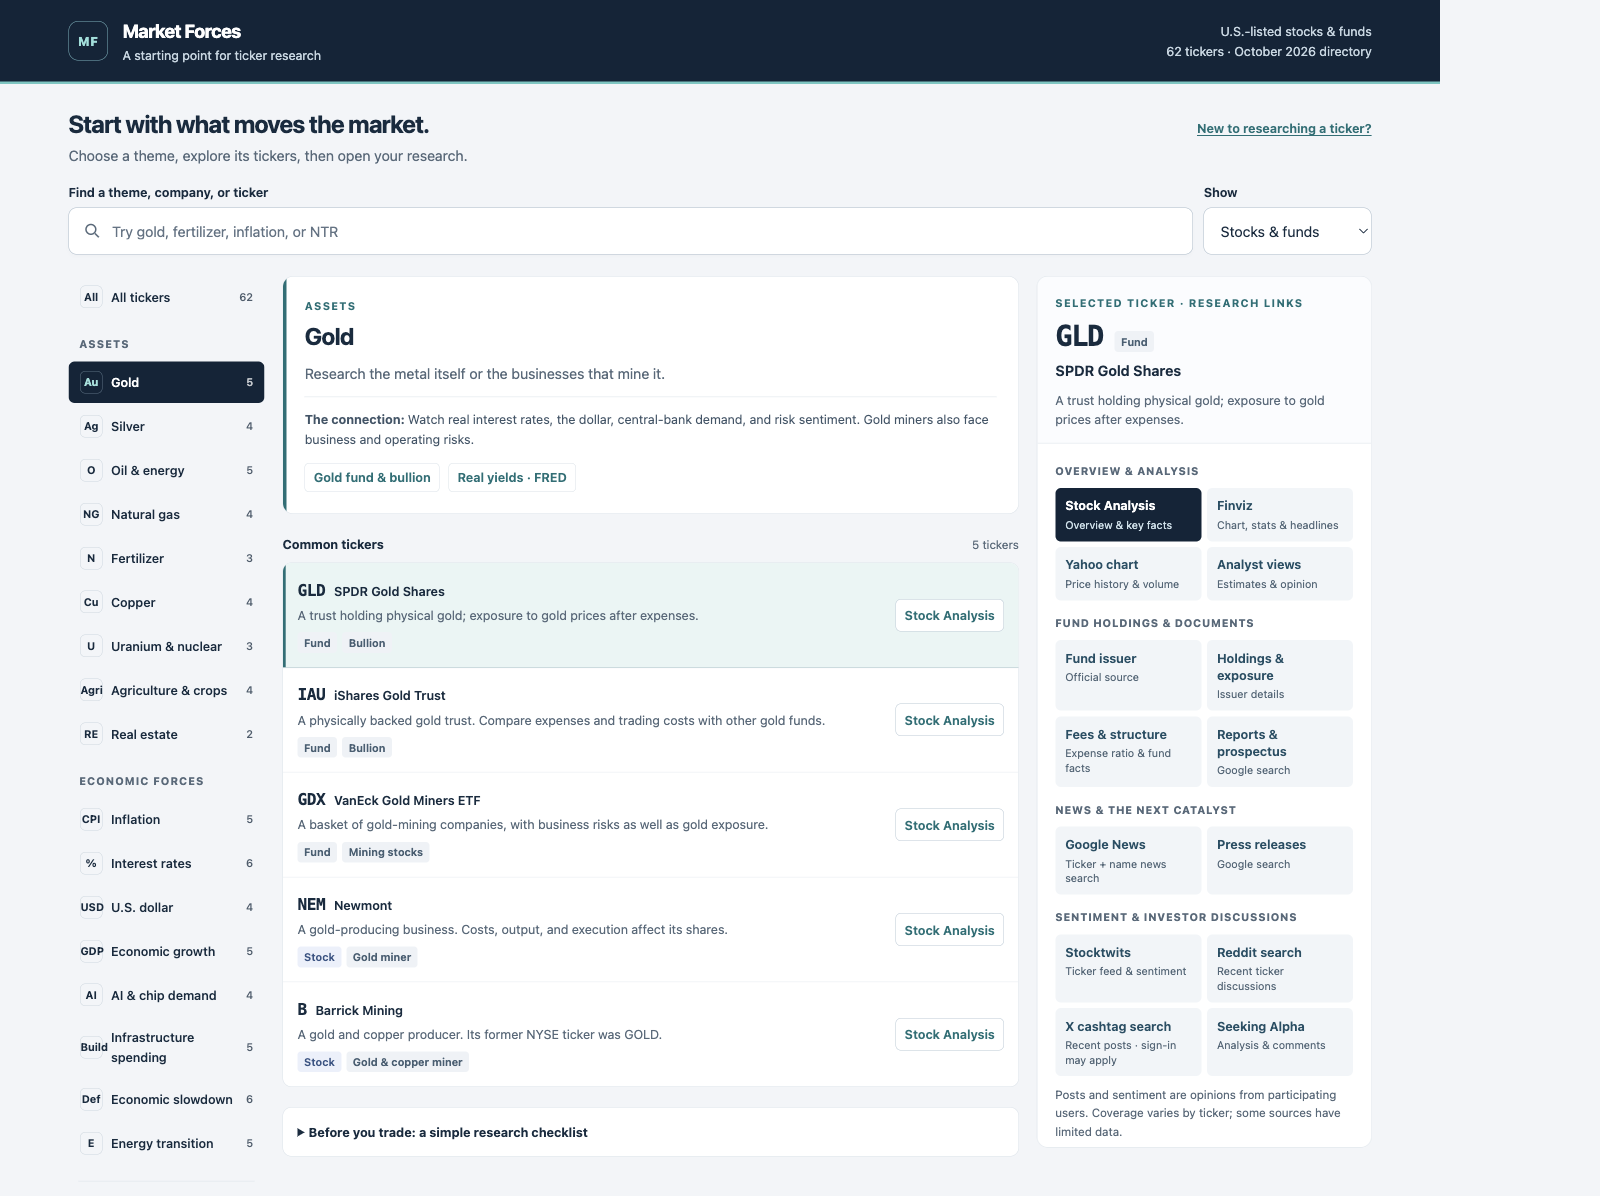
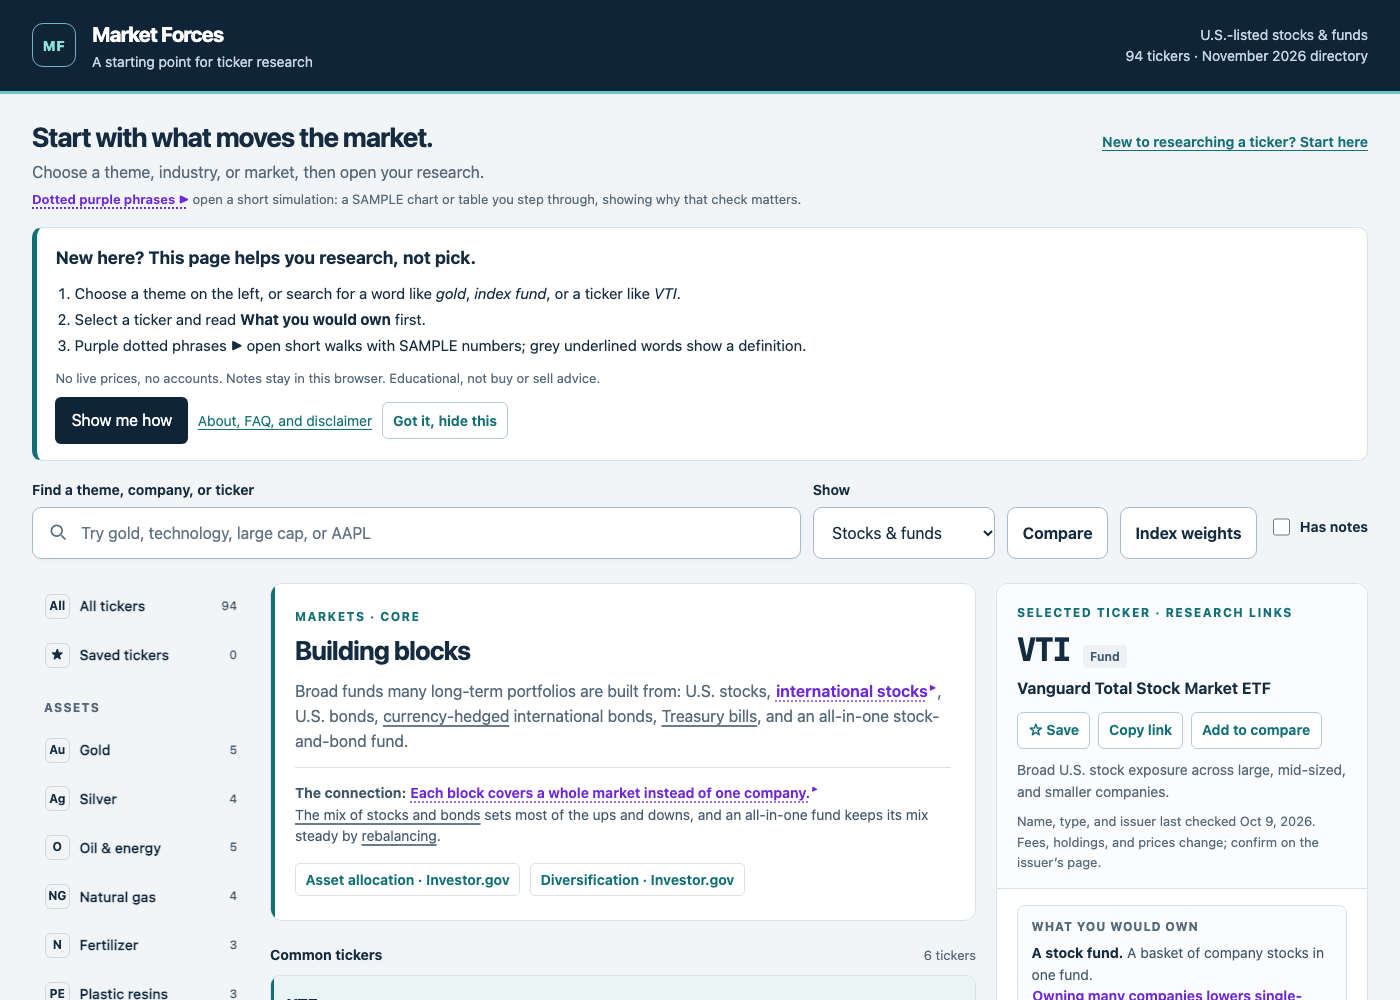
Refresh README and screenshots, add accessibility notes, and record Epic 8 in the roadmap

diff --git a/README.md b/README.md
@@ -9,11 +9,11 @@ By Weng (Weng Fei Fung)
 
 Beginner’s directory of common stocks and funds, grouped by economic theme, with research links for each ticker.
 
-![Gold theme with research links for the GLD fund](screenshots/directory.png)
+![First visit: the welcome card and the Building blocks theme with VTI's research panel](screenshots/directory.png)
 
-![Research links for the Newmont stock, including financials and filings](screenshots/stock-research.png)
+![Research links for the Newmont stock, with the date its entry was last checked](screenshots/stock-research.png)
 
-<img src="screenshots/phone.png" alt="Market Forces on a phone" width="320">
+<img src="screenshots/phone.png" alt="Market Forces on a phone, showing the Corporate & muni bonds theme" width="320">
 
 ## What you can do
 
@@ -27,11 +27,24 @@ Beginner’s directory of common stocks and funds, grouped by economic theme, wi
 - **Step through why it matters.** Dotted purple phrases ▶ in theme text, the research panel, Compare, Index weights, and the research guide open a short simulation, copied from Tool Training in the stocks trainer: a SAMPLE chart or table you step through with Next, Previous, Replay, or the arrow keys. Each step says what it shows and why we are looking. `#…&sim=duration` opens one directly. The research guide lists all 42, Basic first, and every theme underlines at least one. Each walk is tagged Basic, Next step, or Advanced, and a walk that builds on another shows “New to …? ▶” at the top.
 - **Start here for beginners.** “New to researching a ticker? Start here” opens a three-step how-to and seven Basic walks in reading order: what a stock is, how to read a bar, what an index and market cap are, the bond seesaw, compounding, diversification, and defining your downside.
 - **Plain-language words.** Grey underlined words (ETF, Treasury, maturity, futures, spot, market cap, issuer, prospectus, and about 20 more) show a one-line definition; Esc or a click elsewhere closes it. Every research link has a short line saying what it opens.
+- **Welcome and About.** A first visit shows a short welcome card (Got it hides it for good) and opens the research guide once. [About, FAQ, and disclaimer](about.html) covers where the data comes from, how current it is, and where notes are kept.
+- **Building blocks and bond funds.** Broad funds (VTI, VXUS, BND, BNDX, SGOV, and the all-in-one AOR) and Corporate & muni bonds (LQD, HYG, MUB). Search understands everyday words such as *index fund*, *retirement*, *junk bonds*, or *tax free*.
+- **Not covered, and why.** Searching for crypto, leveraged or inverse funds, options, single bonds or CDs, or an account type explains why this beginner directory leaves it out, with an Investor.gov link.
+- **How current it is.** Each research panel shows when that entry was last checked. A banner appears when entries or the index-weights snapshot are more than 90 days old (`?asof=2027-03-01` previews a later date). Index weights say "Not in this snapshot" rather than showing zero.
+- **Works offline and installs.** After one visit the page, directory, and walks load offline; browsers can install it from the manifest. The service worker is network first, so new versions and localhost edits show at once. `?nosw` removes it.
+- **Keeps your notes safe.** After 3 new notes since your last backup, the notes panel suggests one. A private window or blocked storage shows a warning.
+- **Phone.** Tapping a ticker scrolls to its research; *Back to the ticker list* returns. The *Add / edit with AI* helper for maintainers sits in the footer.
 
-No live prices. These are research starting points, not buy or sell recommendations.
+No live prices. These are research starting points, not buy or sell recommendations. Educational, not buy or sell advice.
 
 ## Check the catalog
 
 After editing `data/catalog.json` or `data/index-weights.json`, run `node tools/check-catalog.mjs`. It needs no packages. It fails on a theme symbol missing from `instruments`, a duplicate symbol or theme id, a missing field, an unknown group or category, or a link that is not `https://`, and warns about tickers no theme lists.
+
+It also checks every `reviewed` date and warns when an entry or index snapshot is more than 90 days old, or when an index snapshot has no directory ticker.
+
+After changing `js/core.js` (deep links, search ranking, not-covered notes, backup merge, freshness, titles), run `node tools/test-app.mjs`.
+
+When you change anything under `js/` or `data/`, bump `APP_VERSION` in `index.html` (the loader's `version`). Scripts, data, and the service worker cache all follow it. Accessibility checks and results are in [docs/accessibility.md](docs/accessibility.md).
 
 After editing simulations (`js/simulations.js`) or any theme text they underline, run `node tools/test-simulations.mjs`. It checks the step rules (Next, Previous, Replay, bounds), that every simulation has 5 or more steps with what-and-why copy and a SAMPLE label, that every underlined phrase still exists in the catalog or page and points at a real simulation, that every theme has an underline, that every walk has a level and valid prerequisites, that every defined term and research-link note is on the page, that the SAMPLE tables add up, and that the index-weights walk matches `data/index-weights.json`.

diff --git a/docs/accessibility.md b/docs/accessibility.md
@@ -1,0 +1,40 @@
+# Accessibility pass · 2026-11-13
+
+Checked on index.html and about.html with headless Chrome at 1400 px and 390 px, using a contrast script (WCAG 2.x relative luminance) against the page's CSS and a DOM check for headings, names, ids, and ARIA references.
+
+## Contrast
+
+| Element | Text / background | Ratio | Result |
+|---|---|---|---|
+| Muted body text (`--muted` #56697a) | on #fff / on page #f2f5f8 | 5.68 / 5.19 | Pass AA |
+| Grey term underline (non-text indicator) | #8a9aa8 on #fff, before | 2.89 | Below 3:1 |
+| Grey term underline, after | #6b7c8c on #fff | 4.30 | Pass (3:1 non-text) |
+| Purple simulation phrases (`--sim` #6d28d9) | on #fff | 7.10 | Pass AAA |
+| Level tag Basic, after | #0f6a4f on #ecf8f3 (was #13795b, 4.93) | 6.04 | Pass AA; size 10 → 11 px |
+| Level tag Next step | #1d4f65 on #eaf3f8 | 7.92 | Pass |
+| Level tag Advanced | #8a3b12 on #fdf1e8 | 6.97 | Pass |
+| Badges: Fund / Stock / Saved / Futures, Notes, Estimate | #455e73 on #eef2f6 · #355586 on #ebf0fb · #0d5a60 on #e8f5f4 · #835500 on #fff1d8 | 6.02 · 6.58 · 7.10 · 5.77 | Pass AA |
+| Notes count badge | #fff on #9a6a11 | 4.73 | Pass AA |
+| Search placeholder | #617384 on #fff | 4.89 | Pass AA |
+| New: stale banner, storage warning, not-covered note, backup nudge | #5c4200 on #fff6e0 · #7a1f14 on #fdecea · #2f2550 on #f6f1ff · #4d3700 on #fff6e0 | 8.73 · 9.03 · 12.62 · 10.48 | Pass AAA |
+| New: reviewed date, stale variant | #56697a on #fafcfe · #6b4a00 on #fff6e0 | 5.52 · 7.49 | Pass AA |
+| Masthead and featured links on navy #102438 | #c4d6e2, #e3eef3, #fff | 10.6–15.8 | Pass |
+
+The simulation table's current-column tint is purple at 15% on white (#e9dff9); purple text on it is 5.54, pass.
+
+## Headings and structure
+
+- One `h1` per page. Order on the main page: h1, then h2 (welcome card when shown, theme or search topic), h3 (results, guide sections), and h2 for the research panel (its own `aside` landmark) with h3 groups. No skipped levels on the theme, compare, or index-weights views, or on about.html.
+- No unnamed buttons, links, or fields; no duplicate ids; every `aria-describedby`, `aria-labelledby`, and `aria-controls` points at an element that exists.
+
+## Less screen-reader noise
+
+- Simulation phrases had both `aria-describedby` ("Opens a short simulation") and a `title` with the same words, so some screen readers read it twice. The `title` is gone from all 21 static and every generated phrase.
+- Grey definition words had a `title`; they now use one hidden hint, "Shows a short definition", through `aria-describedby`.
+- The decorative ▶ after each phrase uses `content: "▶" / ""`, so it is not read aloud where alternative text for generated content is supported.
+- New banners use `role="status"` (stale) or `role="alert"` (storage blocked, failed load) only when shown; the not-covered note and backup nudge are `role="note"`, so they are not announced on every keystroke.
+
+## Not changed
+
+- Theme strip on phones scrolls sideways, as before; every theme is still a button in reading order.
+- Smooth scrolling to the research panel respects `prefers-reduced-motion`.

diff --git a/docs/plan/2026-11-12-usefulness-roadmap.md b/docs/plan/2026-11-12-usefulness-roadmap.md
@@ -77,6 +77,16 @@ Ordered by value for effort. Each milestone is one commit.
 - [x] **M7.3 Beginner layer.** Five Basic foundation walks (what a stock is, how to read a bar, index and market cap, the bond seesaw, compounding); a Start here panel with a three-step how-to; Basic / Next step / Advanced tags; “New to …? ▶” prerequisite links with Back; a How to read a bar link in every bar caption; 29 grey-underlined plain definitions; one-line notes under every research link; plain first steps for the futures walks and terms defined at first use.
   - Acceptance: every walk has a level; prerequisites resolve; every bar walk links the bar-reading walk; every term and research-link note appears on the page; keyboard, focus return, print, and phone layout still work.
 
+### Epic 8 · A full app for beginners
+
+- [x] **M8.1 First visit.** A dismissible welcome card; the research guide opens on the first visit only; About, FAQ, and disclaimer page (`about.html`).
+- [x] **M8.2 Coverage.** Building blocks (VTI, VXUS, BND, BNDX, SGOV, AOR) and Corporate & muni bonds (LQD, HYG, MUB, BND, BNDX), checked live on issuer pages; everyday search words; a "Not covered here, and why" note for crypto, leveraged and inverse funds, options, single bonds and CDs, and account types.
+- [x] **M8.3 Freshness.** Every ticker and theme has a `reviewed` date shown on its research panel; a banner after 90 days for entries or the index-weights snapshot; `check-catalog` warns about both. Index weights say "Not in this snapshot" for indexes with no directory company instead of implying zero.
+- [x] **M8.4 Resilience.** Friendly failed-load state with Try again; storage-blocked warning; backup nudge after 3 new notes; offline copy and install through a hand-written manifest and network-first service worker.
+- [x] **M8.5 Phone and polish.** Back to the ticker list on research; the Add / edit with AI helper moves to the footer; per-view `document.title`; Open Graph and Twitter tags; icons.
+- [x] **M8.6 Performance and code health.** Stable `APP_VERSION` stamp; `js/simulations.js` loads when idle or for a `&sim=` link; pure helpers in `js/core.js` tested by `tools/test-app.mjs`; accessibility notes in `docs/accessibility.md`.
+  - Acceptance: all three test scripts and `check-catalog` pass; headless Chrome at 1400 and 390 px shows no console errors; an offline reload renders the directory and the walks.
+
 ## Not in scope
 
 Live prices, live charts (the simulations use labeled SAMPLE tapes only), screening by numbers, or any buy/sell signal. New tickers or themes go through the `add-theme` skill with live sources, not this roadmap.
